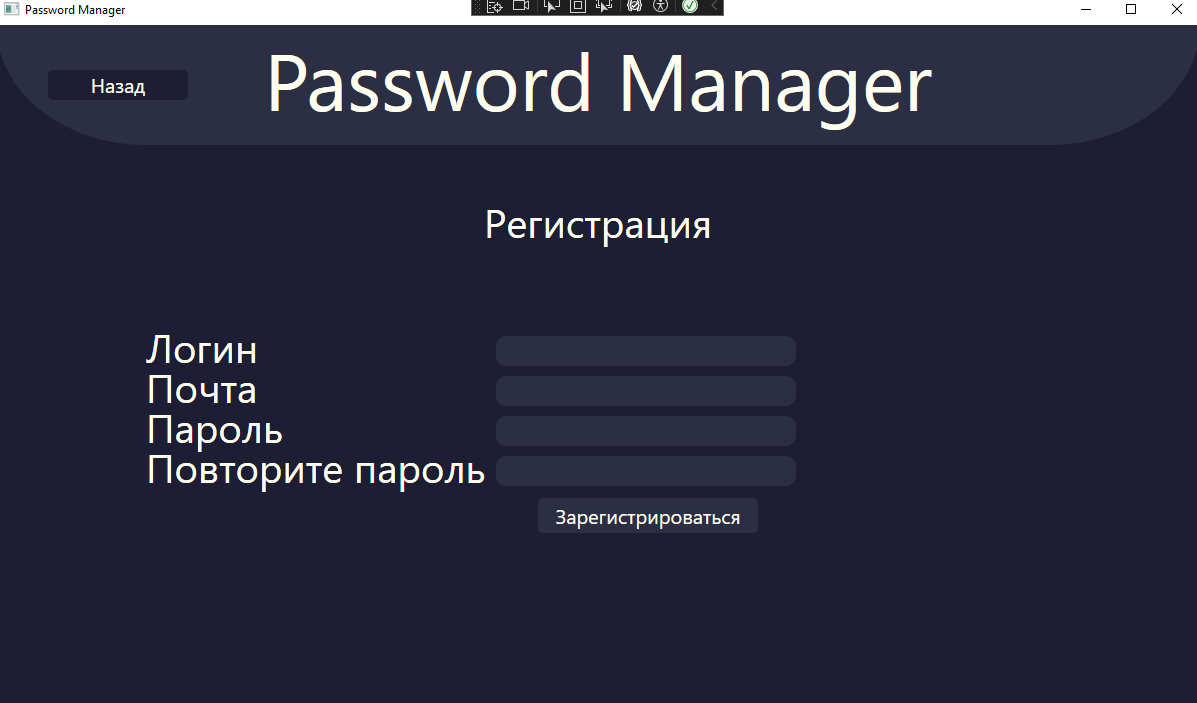
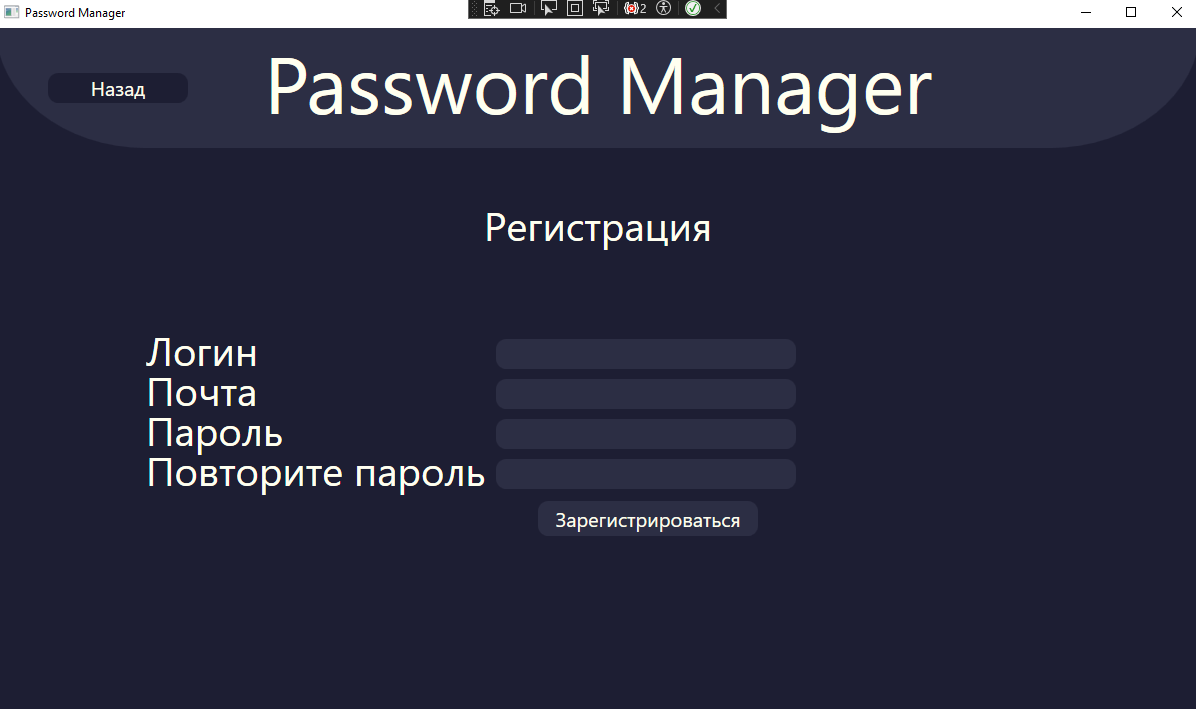
refactoring

diff --git a/Desktop client/Desktop client/Views/RegisterPage.xaml b/Desktop client/Desktop client/Views/RegisterPage.xaml
@@ -33,7 +33,7 @@
                         Margin="0,0,960,0"
                         Background="#1D1E33"
                         Content="Назад"
-                        Command="{Binding BackToLogin}"
+                        Command="{Binding BackToLoginCommand}"
                         IsEnabled="{Binding EnableButton}"/>
                 </Grid>
             </Border>
@@ -87,7 +87,7 @@
                 </i:Interaction.Behaviors>
             </PasswordBox>
             <Button Content="Зарегистрироваться"
-                    Command="{Binding Register}"
+                    Command="{Binding RegisterCommand}"
                     Style="{StaticResource Button}"
                     Height="35"
                     Width="220"

diff --git a/Desktop client/Desktop client/Views/MainWindow.xaml b/Desktop client/Desktop client/Views/MainWindow.xaml
@@ -9,7 +9,8 @@
         DataContext="{Binding MainViewModel, Source={StaticResource DIcontainer}}"
         Title="Password Manager" 
         Height="720" 
-        Width="1220">
+        Width="1220"
+        ResizeMode="NoResize">
     <Grid>
         <Frame Content="{Binding CurrentView}" NavigationUIVisibility="Hidden"/>
     </Grid>

diff --git a/WebApi/WebApi.Service/Implementations/UserService.cs b/WebApi/WebApi.Service/Implementations/UserService.cs
@@ -55,11 +55,7 @@ namespace WebApi.Service
         {
             try
             {
-                string hashPassword = cryptography.GetPasswordHash(model.Password);
-                User? user = repository.GetAll().FirstOrDefault(
-                    u => u.Email == model.Email || u.Login == model.Login);
-
-                if (user != null)
+                if (UserExists(model))
                 {
                     return new Response<User>()
                     {
@@ -69,7 +65,8 @@ namespace WebApi.Service
                     };
                 }
 
-                user = new User()
+                string hashPassword = cryptography.GetPasswordHash(model.Password);
+                User user = new User()
                 {
                     Login = model.Login,
                     Email = model.Email,
@@ -105,8 +102,8 @@ namespace WebApi.Service
             try
             {
                 User user = repository.GetAll().First(u => u.SecretToken == token);
-
                 user.SecretToken = newToken;
+
                 await repository.Update(user);
 
                 return new Response<string>()
@@ -126,7 +123,17 @@ namespace WebApi.Service
                     Status = Domain.Enum.RequestStatus.Failed
                 };
             }
-            
+        }
+
+        private bool UserExists(RegisterViewModel model)
+        {
+            User? user = repository.GetAll().FirstOrDefault(
+                u => u.Email == model.Email || u.Login == model.Login);
+
+            if (user == null)
+                return false;
+            else
+                return true;
         }
     }
 }

diff --git a/WebApi/WebApi/Controllers/UserController.cs b/WebApi/WebApi/Controllers/UserController.cs
@@ -1,5 +1,4 @@
-using Microsoft.AspNetCore.Http.HttpResults;
-using Microsoft.AspNetCore.Mvc;
+using Microsoft.AspNetCore.Mvc;
 using WebApi.Domain.ViewModels.User;
 using WebApi.Service;
 
